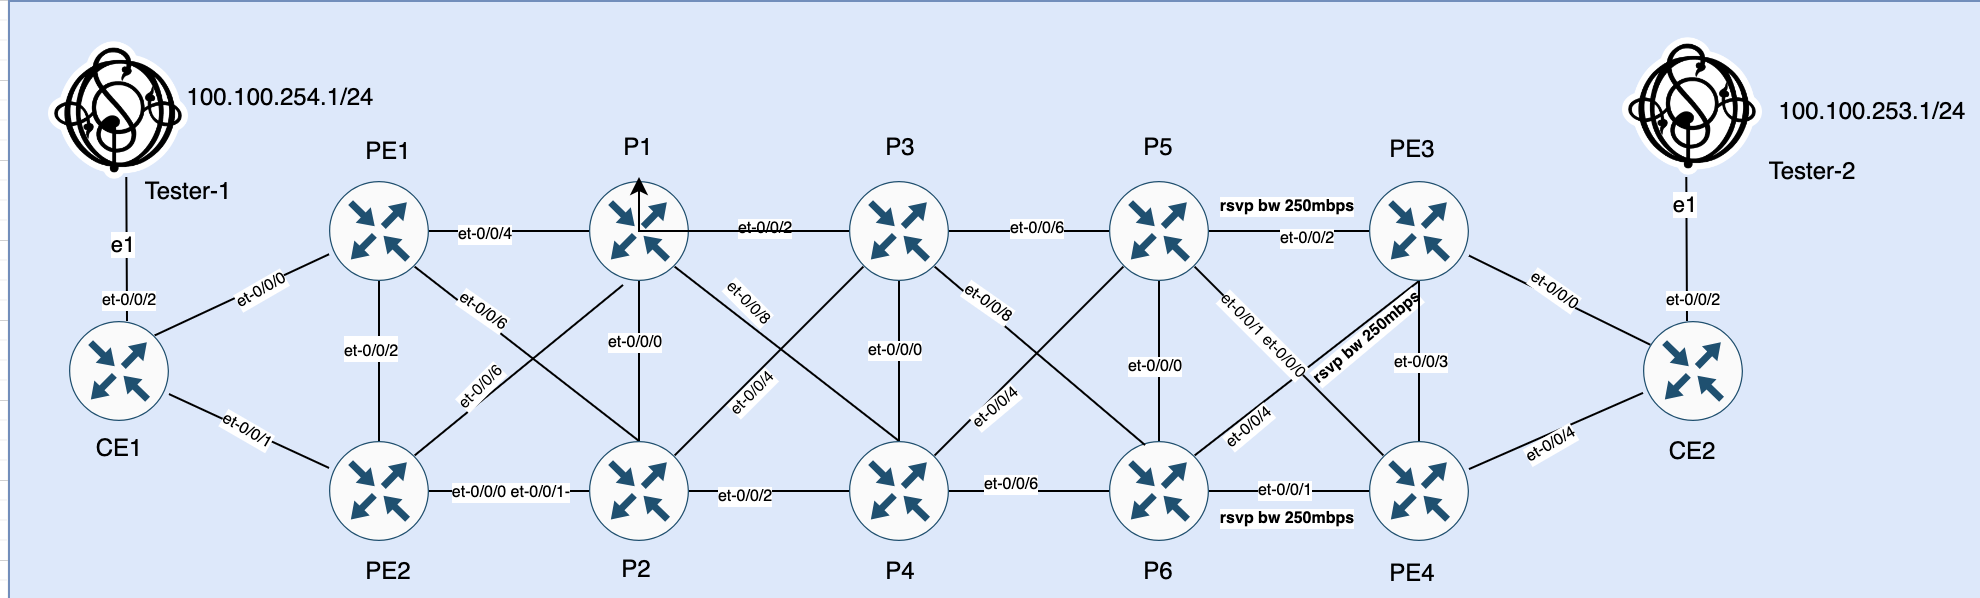
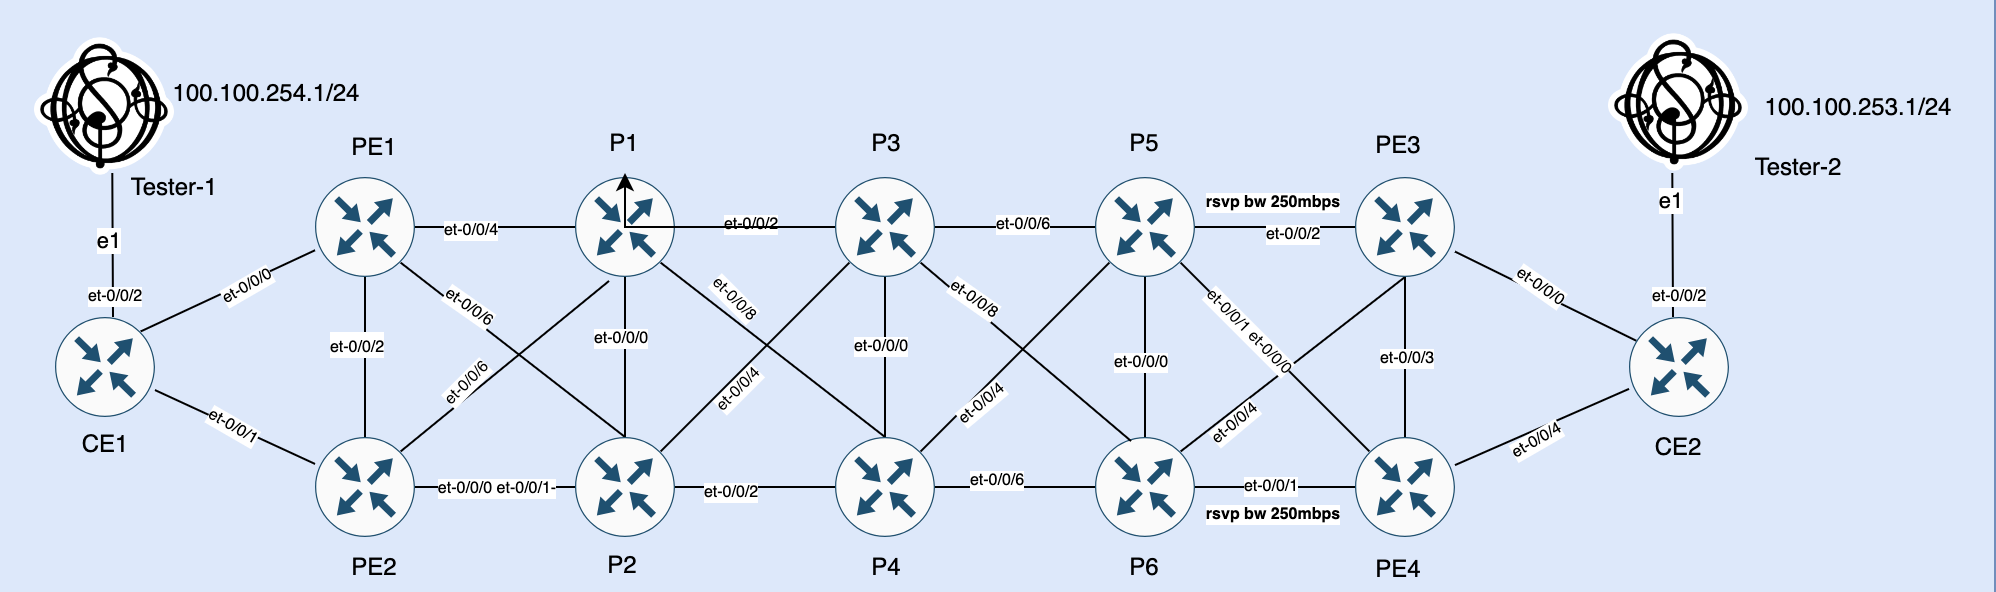
2nd commit

diff --git a/README.md b/README.md
@@ -178,4 +178,14 @@ Few terms in above configuration snippet are not explained above text and I will
 Enough explanation with theory and it's time for test. I already have executed tested and complied results in tabular format for ease of explanation. 
 
 ![tets_results](./images/test_results.png)
-
+* A traffic stream with throughput between 250-300 Mbps was sent from tester-1 via CE1 to tester-2 over MPLS backbone network.
+* It was single flow and CE1 selceted to send all the traffic towards PE2.
+* PE2 was sending traffic to PE3 via MPLS backbone (PE2-P1-P3-P5-PE3) network and PE3 was passing traffic to tester-2 via CE2
+### Results Explaination
+* 1st time stamp shows output captured just at begging when  traffic stream was started from tester-1 to tester-2 and it shows initially signalled bandwidth i.e 1000bps or 1kbps 
+* 2nd time stamp is shows output after 50 seconds (i.e stats-interval) and we can see Maxing Bw was recorded 261.9 Mbps.
+* 3rd time stamp shows output after 2nd stats-interval and Maxing Bw was slightly increased to 264.073Mbps.
+* 4th time stamps shows output after 3rd stats-interval and MaxAvd Bw was increased to 278.44 Mbps, it implies that during last 3 stats-interval bandwidth utilization increase is recorded more then adjust-theroshd (3 %) from currently singled bandwidth i.e 1000bps and increase in bandwidth utilization also crossed adjust-threshold-activate-bandwidth 25 Mbps value.
+* All of the condition to for auto-bw adjusmtent are met so LSP bandwidth will be re-adjusted in make before break fashion.
+* Hence I have reduced rsvp Static Bw to 250Mbps on certain link (please see lab topology in one of above section) so CSPF will find a new path to signal LSP from PE2-PE3 over a path which could allow 278.44 Mbps bandwidth through it and that was signalled via PE2-P1-P3-P6-PE3. 
+* New path could not necessarily the shortest path but a path which would allow required bandwidth to pass through it.
